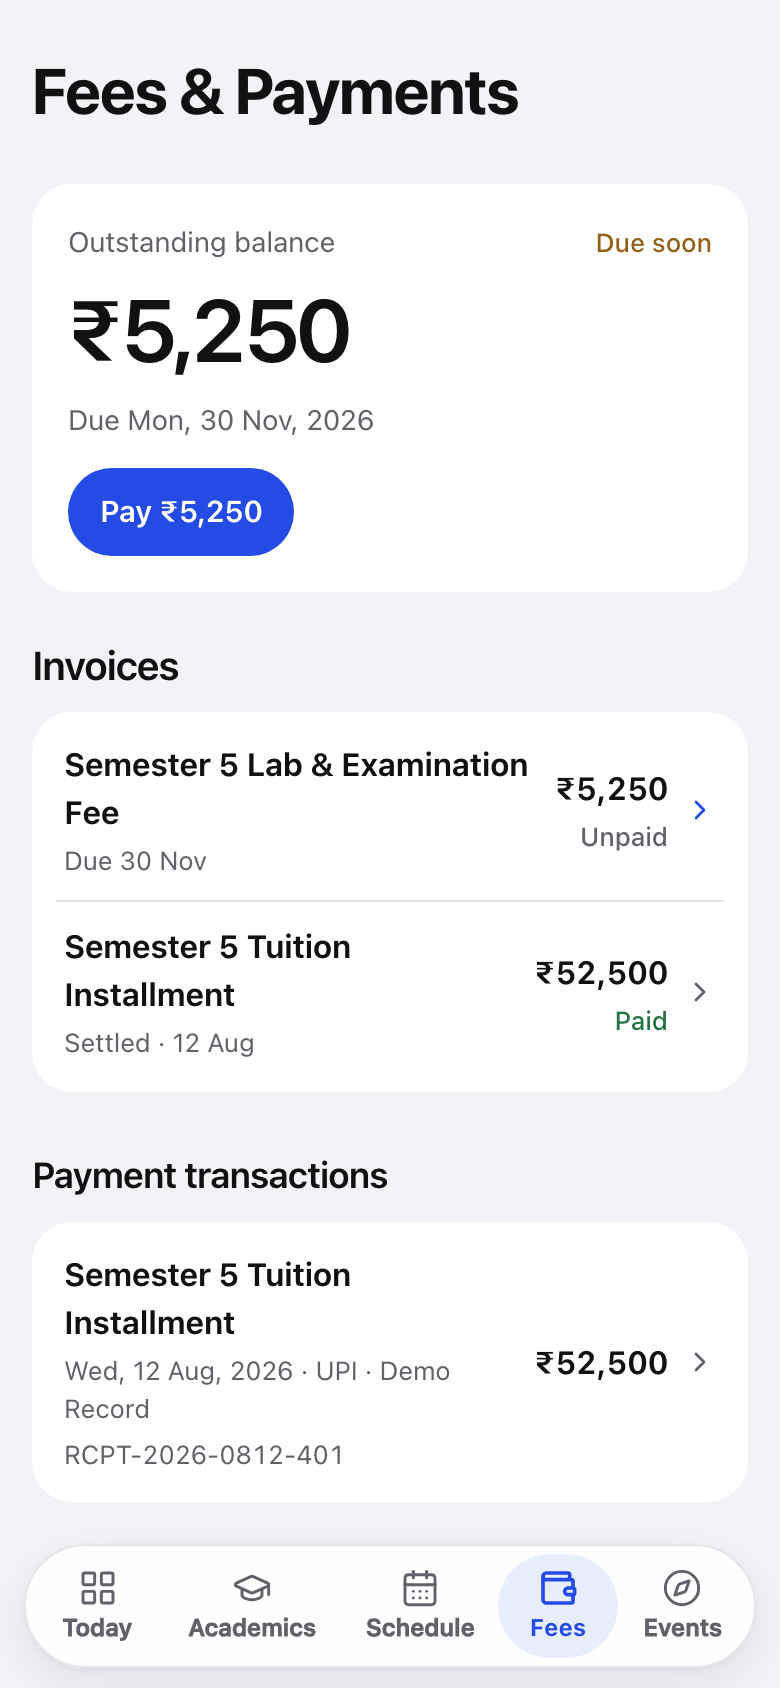
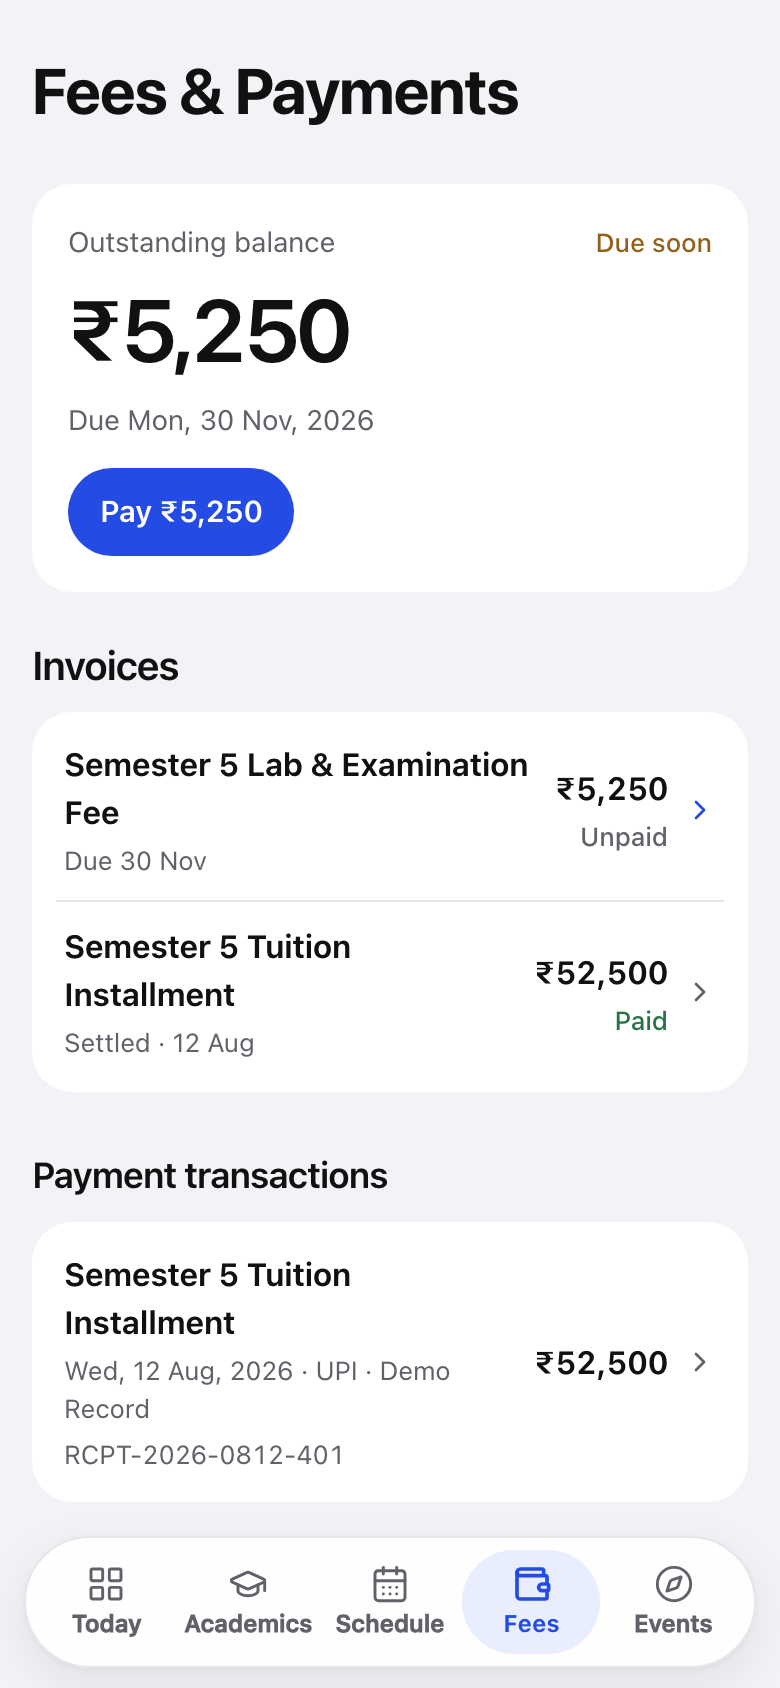
fix(ui): equalize navigation geometry and restore recovery insight

diff --git a/src/app/AppShell.tsx b/src/app/AppShell.tsx
@@ -41,11 +41,39 @@ const appearances = [
 
 const initials = DEMO_STUDENT.name.split(' ').map((name) => name[0]).join('');
 
-function isViewportScaledTooNarrow(): boolean {
+function shouldUseCompactDock(dockListEl?: HTMLUListElement | null): boolean {
   if (typeof window === 'undefined') return false;
   if (window.matchMedia?.('(min-width: 960px)').matches) return false;
+
   const rootPx = parseFloat(getComputedStyle(document.documentElement).fontSize) || 16;
-  return window.innerWidth < rootPx * 19.75;
+  const vw = document.documentElement.clientWidth || window.innerWidth;
+  const dockOuter = Math.min(29 * rootPx, vw - 1.5 * rootPx);
+  const dockInner = dockOuter - 0.75 * rootPx - 2;
+  const availCell = (dockInner - 4 * (0.125 * rootPx)) / primaryNav.length;
+
+  const fontPx = 0.75 * rootPx;
+  const fontFamily = getComputedStyle(document.body).fontFamily || 'sans-serif';
+  let widestLabel = 0;
+  if (typeof document !== 'undefined') {
+    const ctx = document.createElement('canvas').getContext('2d');
+    if (ctx) {
+      ctx.font = `680 ${fontPx}px ${fontFamily}`;
+      for (const item of primaryNav) {
+        widestLabel = Math.max(widestLabel, ctx.measureText(item.label).width);
+      }
+    }
+  }
+
+  const requiredCell = Math.max(4 * rootPx, Math.ceil(widestLabel) + 2);
+  if (availCell < requiredCell) return true;
+
+  if (dockListEl) {
+    const labels = dockListEl.querySelectorAll('span');
+    if (Array.from(labels).some((el) => el.scrollWidth > el.clientWidth + 1)) {
+      return true;
+    }
+  }
+  return false;
 }
 
 function Brand() {
@@ -70,7 +98,7 @@ export function AppShell({
   const previousPath = useRef(pathname);
   const [profileOpen, setProfileOpen] = useState(false);
   const [navMenuOpen, setNavMenuOpen] = useState(false);
-  const [compactDock, setCompactDock] = useState<boolean>(() => isViewportScaledTooNarrow());
+  const [compactDock, setCompactDock] = useState<boolean>(() => shouldUseCompactDock());
 
   const activeNav =
     primaryNav.find((item) => pathname === item.to || (item.label === 'Academics' && isAcademics)) ??
@@ -84,18 +112,7 @@ export function AppShell({
       setNavMenuOpen(false);
       return;
     }
-    if (isViewportScaledTooNarrow()) {
-      setCompactDock(true);
-      return;
-    }
-    const list = dockListRef.current;
-    if (!list) {
-      setCompactDock(false);
-      return;
-    }
-    const labels = list.querySelectorAll('span');
-    const clipped = Array.from(labels).some((el) => el.scrollWidth > el.clientWidth + 1);
-    setCompactDock(clipped);
+    setCompactDock(shouldUseCompactDock(dockListRef.current));
   }, []);
 
   useLayoutEffect(() => {
@@ -105,30 +122,23 @@ export function AppShell({
 
   useEffect(() => {
     const handleEnvironmentChange = () => {
-      if (isViewportScaledTooNarrow()) {
-        setCompactDock(true);
-      } else {
-        setCompactDock(false);
-        window.requestAnimationFrame(measureDockFit);
-      }
+      window.requestAnimationFrame(measureDockFit);
     };
 
     window.addEventListener('resize', handleEnvironmentChange);
     const ro =
       typeof ResizeObserver !== 'undefined' && dockListRef.current
-        ? new ResizeObserver(() => window.requestAnimationFrame(measureDockFit))
+        ? new ResizeObserver(handleEnvironmentChange)
         : null;
     if (ro && dockListRef.current) ro.observe(dockListRef.current);
 
     const mo =
       typeof MutationObserver !== 'undefined'
-        ? new MutationObserver(() => handleEnvironmentChange())
+        ? new MutationObserver(handleEnvironmentChange)
         : null;
     mo?.observe(document.documentElement, { attributes: true, attributeFilter: ['style', 'class'] });
 
-    void document.fonts?.ready.then(() => {
-      window.requestAnimationFrame(measureDockFit);
-    });
+    void document.fonts?.ready.then(handleEnvironmentChange);
 
     return () => {
       window.removeEventListener('resize', handleEnvironmentChange);

diff --git a/src/features/academics/Attendance.tsx b/src/features/academics/Attendance.tsx
@@ -254,6 +254,7 @@ export function Attendance() {
   ).length;
 
   const risk = belowTargetCount ? ranked[0] : undefined;
+  const riskPlan = risk ? calculateRecoveryPlan(risk, activeTarget) : undefined;
   const riskCourse = risk ? getCourseOffering(risk.offeringId) : undefined;
 
   function selectSubject(offeringId: string) {
@@ -309,15 +310,41 @@ export function Attendance() {
           <h3>
             {belowTargetCount
               ? `${belowTargetCount} ${belowTargetCount === 1 ? 'subject' : 'subjects'} below ${activeTarget.label}`
-              : `All subjects at or above ${activeTarget.label}`}
+              : `All subjects meet ${activeTarget.label}`}
           </h3>
-          {risk && riskCourse ? (
+          {risk && riskCourse && riskPlan ? (
             <>
-              <p className="hero-summary">
-                {belowTargetCount === 1
-                  ? `${riskCourse.name} (${risk.attended}/${risk.conducted}) needs recovery attention.`
-                  : `${riskCourse.name} (${risk.attended}/${risk.conducted}) has the largest shortfall among ${belowTargetCount} subjects.`}
-              </p>
+              {riskPlan.status === 'recoverable' && riskPlan.neededClasses !== null ? (
+                <>
+                  <p className="insight-action-summary">
+                    Attend the next {riskPlan.neededClasses} {riskCourse.code}{' '}
+                    {riskPlan.neededClasses === 1 ? 'class' : 'classes'} to reach{' '}
+                    {activeTarget.label}.
+                  </p>
+                  <p className="hero-summary">
+                    {risk.remaining} {risk.remaining === 1 ? 'class remains' : 'classes remain'}
+                    {belowTargetCount > 1
+                      ? ` · ${belowTargetCount - 1} more below ${activeTarget.label}`
+                      : ''}
+                    .
+                  </p>
+                </>
+              ) : riskPlan.status === 'unreachable' ? (
+                <>
+                  <p className="insight-action-summary" data-unreachable="true">
+                    {riskCourse.code} cannot reach {activeTarget.label} this term.
+                  </p>
+                  <p className="hero-summary">
+                    {riskPlan.neededClasses !== null
+                      ? `${riskPlan.neededClasses} consecutive classes needed with ${risk.remaining} ${risk.remaining === 1 ? 'class' : 'classes'} remaining.`
+                      : `${risk.attended}/${risk.conducted} recorded with ${risk.remaining} remaining.`}
+                  </p>
+                </>
+              ) : (
+                <p className="insight-action-summary">
+                  {riskCourse.code}: {riskPlan.explanation}
+                </p>
+              )}
               <button
                 type="button"
                 className="insight-action"
@@ -328,7 +355,7 @@ export function Attendance() {
             </>
           ) : (
             <p className="hero-summary">
-              All recorded courses meet the {activeTarget.label} minimum. Select any subject to check safe absences.
+              Every recorded course satisfies the {activeTarget.label} requirement.
             </p>
           )}
         </div>

diff --git a/src/app/shell.css b/src/app/shell.css
@@ -122,20 +122,21 @@
 .campus-dock {
   position: fixed;
   z-index: 40;
-  inset-inline: 0.75rem;
+  inset-inline: max(0.75rem, env(safe-area-inset-left, 0px)) max(0.75rem, env(safe-area-inset-right, 0px));
   bottom: max(0.625rem, env(safe-area-inset-bottom, 0px));
   margin-inline: auto;
   max-width: 29rem;
-  padding: 0.25rem;
+  padding: 0.375rem;
   border: 1px solid var(--color-divider);
   border-radius: var(--radius-capsule);
   background: var(--color-surface);
   box-shadow: var(--shadow-floating), inset 0 1px 0 var(--chrome-highlight);
 }
 
-@supports (backdrop-filter: blur(16px)) {
+@supports (backdrop-filter: blur(16px)) or (-webkit-backdrop-filter: blur(16px)) {
   .campus-dock {
     background: var(--chrome-bg);
+    -webkit-backdrop-filter: blur(20px) saturate(1.2);
     backdrop-filter: blur(20px) saturate(1.2);
   }
 }
@@ -144,28 +145,35 @@
 (prefers-contrast: more) {
   .campus-dock {
     background: var(--color-surface);
+    -webkit-backdrop-filter: none;
     backdrop-filter: none;
   }
 }
 
 .campus-dock ul {
   display: grid;
-  grid-template-columns: 0.96fr 1.36fr 1.16fr 0.9fr 0.96fr;
-  gap: 0.0625rem;
+  grid-template-columns: repeat(5, minmax(0, 1fr));
+  gap: 0.125rem;
+  padding: 0;
+  margin: 0;
   list-style: none;
 }
 
 .campus-dock li {
   min-width: 0;
+  display: flex;
 }
 
 .campus-dock a {
-  display: grid;
-  justify-items: center;
-  align-content: center;
+  display: flex;
+  flex-direction: column;
+  align-items: center;
+  justify-content: center;
   gap: 0.1875rem;
+  width: 100%;
+  min-width: 0;
   min-height: 3.25rem;
-  padding: 0.25rem 0.0625rem;
+  padding: 0.25rem 0;
   border-radius: var(--radius-capsule);
   color: var(--color-text-secondary);
   text-align: center;
@@ -175,7 +183,14 @@
   transition: color var(--transition-fast), background-color var(--transition-fast);
 }
 
+.campus-dock a svg {
+  display: block;
+  flex: none;
+}
+
 .campus-dock span {
+  display: block;
+  max-width: 100%;
   white-space: nowrap;
 }
 
@@ -268,12 +283,6 @@
 
 .campus-dock a:active {
   background: var(--color-surface-secondary);
-}
-
-@media (max-width: 359px) {
-  .campus-dock {
-    inset-inline: 0.5rem;
-  }
 }
 
 @media (min-width: 600px) {

diff --git a/src/features/academics/academics.css b/src/features/academics/academics.css
@@ -216,9 +216,21 @@
 }
 
 .hero-summary {
-  margin-top: 0.375rem;
-  font-size: 0.9375rem;
+  margin-top: 0.25rem;
+  font-size: 0.875rem;
   color: var(--color-text-secondary);
+}
+
+.insight-action-summary {
+  margin-top: 0.25rem;
+  font-size: 0.9375rem;
+  font-weight: 600;
+  line-height: 1.4;
+  color: var(--color-text-primary);
+}
+
+.insight-action-summary[data-unreachable='true'] {
+  color: var(--color-warning);
 }
 
 .insight-action {
@@ -468,7 +480,7 @@
   border-radius: var(--radius-control);
   background: var(--color-surface-secondary);
   color: var(--color-text-primary);
-  font-size: 0.9375rem;
+  font-size: 1rem;
   font-variant-numeric: tabular-nums;
 }
 

diff --git a/src/features/events/events.css b/src/features/events/events.css
@@ -104,7 +104,7 @@
   border-radius: var(--radius-control);
   background: var(--color-surface-secondary);
   color: var(--color-text-primary);
-  font-size: 0.9375rem;
+  font-size: 1rem;
 }
 
 .events-search::placeholder {

diff --git a/src/styles/global.css b/src/styles/global.css
@@ -54,6 +54,12 @@
   select:not(:disabled) {
     cursor: pointer;
   }
+
+  input:not([type='checkbox']):not([type='radio']),
+  textarea,
+  select {
+    font-size: max(1rem, 1em);
+  }
 }
 
 .tabular-nums {

diff --git a/docs/RELEASE.md b/docs/RELEASE.md
@@ -5,6 +5,17 @@
 **GitHub repository:** <https://github.com/abbasahamed/CampusOne> (`PUBLIC`, branch `master`)  
 **Live production URL:** <https://campusone-pi-flax.vercel.app> (Vercel project `abbas1-46a5/campusone`, deployment `3fyRQCgLbvhGbn3JcHC1wDW3NhvE`)
 
+## Phase 08C corrective patch verification
+
+- **Scope:** Equalized 5-column mobile dock geometry (`repeat(5, minmax(0, 1fr))`), canvas-based non-oscillating Menu fallback (`320px`, `360px`, `390px @ 200%`), restored actionable Attendance overview insight, `>= 1rem` (`16px` default) editable inputs, and `-webkit-backdrop-filter` support.
+- **Static checks (`npm run typecheck && npm run lint && npm test && npm run build`):** Passed (`0` TS errors, `0` ESLint errors, `5/5` domain tests passing in `129.88ms`, `dist/` built in `777ms`).
+- **Objective `390×844` mobile dock measurements (all 5 routes):**
+  - Cell widths: `68.8, 68.8, 68.8, 68.8, 68.81` px (max delta `0.01` px).
+  - Consecutive icon-center spacing: `70.8, 70.79, 70.8, 70.81` px (max delta `0.02` px; vertical delta `0` px).
+  - Selected capsule dimensions: `68.8` px width (`68.81` px on Events, `0.01` px delta) × `52` px height; outer clearance `7` px left / `7` px right.
+  - Responsive adaptive dock: `Menu` sheet fallback active at `320px`, `360px`, and `390px @ 200%` (`0` overflow, `Escape` restores focus); 5 equal cells active at `390px` and `430px` (`0` clipping).
+- **Attendance & Safari precautions:** Mobile `75%` overview (`bottomY: 490 <= 844`) shows `"Attend the next 6 CS301 classes to reach 75%."` + `"8 classes remain."`; `85%` shows `"CS301 cannot reach 85% this term."` (`28` needed, `8` remaining). Computed font sizes on Event search, Marks estimate, and Attendance `What if?` inputs measure `16px` at default scaling; `-webkit-backdrop-filter` verified in compiled CSS.
+
 ## Build and calculation verification
 
 Executed after final UI/metadata updates (`index.html`, `src/`, `public/`):
@@ -31,7 +42,8 @@ Tested in a clean ephemeral headless Chrome CDP profile (`0` console errors, `0`
 
 ## Screenshot evidence & attribution
 
-- **Curated competition screens (`11` captures):** [`docs/screenshots/final/`](screenshots/final)
+- **Curated competition screens (`11` captures, `01`–`06` refreshed in Phase 08C):** [`docs/screenshots/final/`](screenshots/final)
+- **Phase 08C corrective captures (`11` captures):** [`docs/screenshots/phase-08c/`](screenshots/phase-08c)
 - **Phase 07B defect captures (`14` captures):** [`docs/screenshots/phase-07b/`](screenshots/phase-07b)
 - **Attribution:** See [`docs/ATTRIBUTION.md`](ATTRIBUTION.md)
 

diff --git a/docs/STATUS.md b/docs/STATUS.md
@@ -1,5 +1,15 @@
 # CampusOne status
 
+## 27 November 2026 IST · Phase 08C corrective patch checkpoint
+
+- **State**: **Frozen for Pixelcraft Round 1 submission**. Applied targeted Phase 08C corrective patch on `master` and verified locally and on live Vercel production (`https://campusone-pi-flax.vercel.app`).
+- **Corrective fixes**:
+  - **Floating dock geometry** (`src/app/shell.css`, `src/app/AppShell.tsx`): Switched to five equal columns (`repeat(5, minmax(0, 1fr))`), centered flex cells (`52px` tall, `68.8px` wide, `70.8px` center spacing, `7px` symmetrical edge clearance at `390×844`, `<= 0.02px` variation), and non-oscillating canvas-measured fit detection triggering the accessible Menu fallback whenever cell width falls below readable limits (`320px`, `360px`, or `390px @ 200%`).
+  - **Actionable Attendance overview** (`src/features/academics/Attendance.tsx`, `src/features/academics/academics.css`): Restored top-level derived recovery copy (`"Attend the next 6 CS301 classes to reach 75%."` + `"8 classes remain."`) visible within the first `390×844` mobile viewport (`bottomY: 490px`) alongside dynamic `80%` exact-threshold and `85%` unreachable overview states, while keeping full math inside the detailed planner.
+  - **Mobile Safari compatibility precautions** (`src/styles/global.css`, `src/app/shell.css`, `src/features/events/events.css`, `src/features/academics/academics.css`): Set `1rem` (`16px` at `100%`, scales to `32px` at `200%`) minimum text/number input sizing and added `-webkit-backdrop-filter` prefixes + `@supports` checks with preserved opaque fallbacks.
+- **Evidence**: [`docs/RELEASE.md`](RELEASE.md), `docs/screenshots/phase-08c/` (`11` captures), and refreshed `docs/screenshots/final/` (`01`–`06`).
+- **Explicit limitations**: Physical iPhone/Android hardware, real iOS Safari / desktop Safari / Firefox, virtual-keyboard behavior, and interactive VoiceOver/NVDA walkthroughs were not executed.
+
 ## 27 November 2026 IST · Phase 08 release & live verification checkpoint
 
 - **State**: **Published and live on Vercel (`master` synchronized cleanly)**. All Phase 07B fixes, competition metadata (`public/og-image.png`, canonical URLs), `README.md`, public GitHub repository (`https://github.com/abbasahamed/CampusOne`), Vercel production (`https://campusone-pi-flax.vercel.app`), signed-out production acceptance checks, and `docs/RELEASE.md` are complete.
